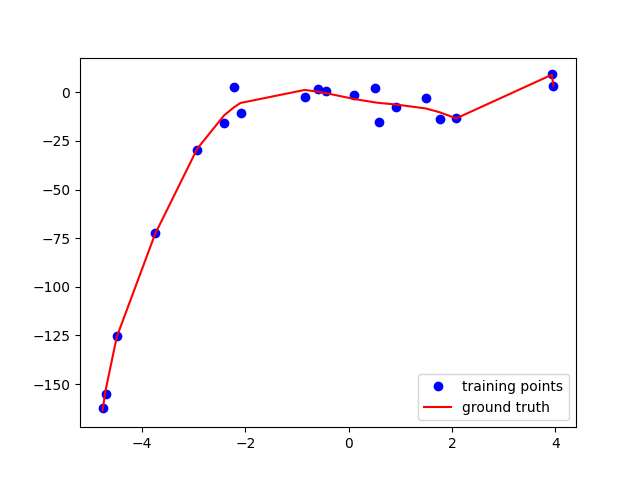
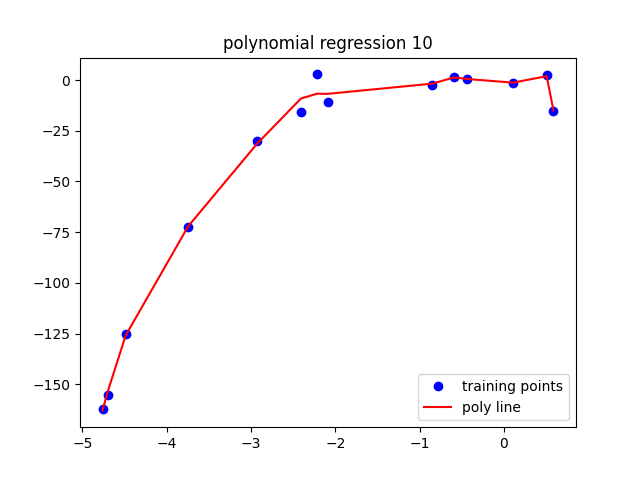
done ?

diff --git a/task 3/Main.py b/task 3/Main.py
@@ -11,6 +11,8 @@ from sklearn.model_selection import train_test_split
 from sklearn.metrics import classification_report,confusion_matrix
 from sklearn import metrics
 from sklearn.ensemble import RandomForestClassifier
+from sklearn.metrics import accuracy_score
+from sklearn.model_selection import cross_val_score
 def graph(data):
     patient = data.loc[data['Participant Condition'] == "Patient"]
     patient = patient[["Alpha"]]
@@ -29,8 +31,10 @@ def graph(data):
 
     control = data_file.loc[data['Participant Condition'] != "Patient"]
     control = control[["Beta"]]
-    fig = sns.kdeplot(control["Beta"], shade=True, color="g")
     fig = sns.kdeplot(patient["Beta"], shade=True, color="r")
+    fig = sns.kdeplot(control["Beta"], shade=True, color="g")
+
+    plt.legend((' patient', ' control ', '$x$'), loc='lower right')
     plt.show()
 def sksplit(data,k):
     kf = KFold(n_splits=k,shuffle=True)
@@ -46,47 +50,156 @@ print(data_file.describe().transpose())
 X = data_file[Prd].values
 y = data_file[Tc].values
 
-X_train, X_test, y_train, y_test = train_test_split(X, y, test_size=0.10, random_state=40)
+X_train, X_test, y_train, y_test = train_test_split(X, y, test_size=0.10, random_state=40) # data splitter
 
-print(X_train.shape); print(X_test.shape)
-mlp = MLPClassifier(hidden_layer_sizes=(50,50), activation='relu', solver='adam', max_iter=500)
-mlp2 = MLPClassifier(hidden_layer_sizes=(500,500), activation='relu', solver='adam', max_iter=500)
-mlp3 = MLPClassifier(hidden_layer_sizes=(1000,1000), activation='relu', solver='adam', max_iter=500)
-
-#mlp.fit(X_train,y_train)
-
-#mlp2.fit(X_train,y_train)
-
-#mlp3.fit(X_train,y_train)
-
-#predict_train = mlp.predict(X_train)
-#predict_train2 = mlp2.predict(X_train)
-#predict_train3 = mlp3.predict(X_train)
-#predict_test = mlp.predict(X_test)
-#predict_test2 = mlp2.predict(X_test)
-#predict_test3 = mlp3.predict(X_test)
-#print(confusion_matrix(y_train,predict_train))
+print(X_train.shape)
+print(X_test.shape)
+print(X_train)
+mlp = MLPClassifier(hidden_layer_sizes=(500,500), activation='logistic', solver='lbfgs', max_iter=500)
 
 
-#print(classification_report(y_train,predict_train))
-#print(confusion_matrix(y_train,predict_train2))
-#print(classification_report(y_train,predict_train2))
-#print(confusion_matrix(y_train,predict_train3))
-#print(classification_report(y_train,predict_train3))
-#clf = RandomForestClassifier(n_estimators=50,min_samples_leaf=10)
-#clf2 = RandomForestClassifier(n_estimators=500,min_samples_leaf=10)
-#clf3 = RandomForestClassifier(n_estimators=10000,min_samples_leaf=10)
-#clf.fit(X_train,y_train)
-#clf2.fit(X_train,y_train)
-#clf3.fit(X_train,y_train)
-#y_pred = clf.predict(X_test)
-#print("Accuracy:",metrics.accuracy_score(y_test, y_pred))
-#y_pred2 = clf2.predict(X_test)
-#print("Accuracy:",metrics.accuracy_score(y_test, y_pred2))
-#y_pred3 = clf3.predict(X_test)
-#print("Accuracy:",metrics.accuracy_score(y_test, y_pred3))
+mlp.fit(X_train,y_train)
+predict_train = mlp.predict(X_train)
+predict_test = mlp.predict(X_test)
+print(confusion_matrix(y_train,predict_train))
+
+
+print(classification_report(y_train,predict_train))
+
+clf = RandomForestClassifier(n_estimators=1000,min_samples_leaf=10)
+
+clf.fit(X_train,y_train)
+
+y_pred = clf.predict(X_test)
+print("Accuracy 10 leaf :",metrics.accuracy_score(y_test, y_pred))
+clf = RandomForestClassifier(n_estimators=1000,min_samples_leaf=5)
+
+clf.fit(X_train,y_train)
+
+y_pred = clf.predict(X_test)
+print("Accuracy 5 leaf :",metrics.accuracy_score(y_test, y_pred))
+## 3.3 below
 k = 10
-SplitData= sksplit(data_file,k)
-print(SplitData[0])
+df = data_file.drop(labels=['Image number','Bifurcation number','Artery (1)/ Vein (2)'], axis=1)
+out = df["Participant Condition"].transpose()
+print(df)
+inp = df.drop(['Participant Condition'], axis=1)
+kf = KFold(n_splits=10)
+kf.get_n_splits(X)
+print(kf)
+inp = inp.transpose()
+for train_index,test_index in kf.split(df):
+    X_train, X_test = inp[train_index],inp[test_index]
+    y_train, y_test = out[train_index], out[test_index]
 
-#predict_train = mlp.predict(X_train)
+X_train = X_train.transpose()
+X_test = X_test.transpose()
+y_train = y_train.transpose()
+y_test = y_test.transpose()
+
+AnnClassOne = MLPClassifier(hidden_layer_sizes=(50,50), activation='logistic', solver='adam', max_iter=5000)
+AnnClassTwo = MLPClassifier(hidden_layer_sizes=(500,500), activation='logistic', solver='adam', max_iter=5000)
+AnnClassThree = MLPClassifier(hidden_layer_sizes=(1000,1000), activation='logistic', solver='adam', max_iter=5000)
+TreeForestOne = RandomForestClassifier(n_estimators=50,min_samples_leaf=10)
+TreeForestTwo = RandomForestClassifier(n_estimators=500,min_samples_leaf=10)
+TreeForestThree = RandomForestClassifier(n_estimators=10000,min_samples_leaf=10)
+
+AS = []
+for train_index,test_index in kf.split(df):
+    X_train, X_test = inp[train_index], inp[test_index]
+    y_train, y_test = out[train_index], out[test_index]
+    X_train = X_train.transpose()
+    X_test = X_test.transpose()
+    y_train = y_train.transpose()
+    y_test = y_test.transpose()
+    AnnClassOne.fit(X_train,y_train)
+    predict_train = AnnClassOne.predict(X_train)
+    predict_test = AnnClassOne.predict(X_test)
+    AS.append(accuracy_score(y_train, predict_train))
+scores = cross_val_score(AnnClassOne, inp.transpose(), out.transpose(), cv=5)
+print('Average accuracy 50 ANN')
+print("CV accuracy = %0.2f accuracy with a standard deviation of %0.2f" % (scores.mean(), scores.std()))
+print("Normal Accuracy = ",sum(AS)/len(AS))
+AS = []
+for train_index,test_index in kf.split(df):
+    X_train, X_test = inp[train_index], inp[test_index]
+    y_train, y_test = out[train_index], out[test_index]
+    X_train = X_train.transpose()
+    X_test = X_test.transpose()
+    y_train = y_train.transpose()
+    y_test = y_test.transpose()
+    AnnClassTwo.fit(X_train,y_train)
+    predict_train = AnnClassTwo.predict(X_train)
+    predict_test = AnnClassTwo.predict(X_test)
+    AS.append(accuracy_score(y_train, predict_train))
+print('Average accuracy 500 ANN')
+scores = cross_val_score(AnnClassTwo, inp.transpose(), out.transpose(), cv=10)
+print("CV accuracy = %0.2f accuracy with a standard deviation of %0.2f" % (scores.mean(), scores.std()))
+print("Normal Accuracy = ",sum(AS)/len(AS))
+
+AS = []
+for train_index,test_index in kf.split(df):
+    X_train, X_test = inp[train_index], inp[test_index]
+    y_train, y_test = out[train_index], out[test_index]
+    X_train = X_train.transpose()
+    X_test = X_test.transpose()
+    y_train = y_train.transpose()
+    y_test = y_test.transpose()
+    AnnClassThree.fit(X_train,y_train)
+    predict_train = AnnClassThree.predict(X_train)
+    predict_test = AnnClassThree.predict(X_test)
+    AS.append(accuracy_score(y_train, predict_train))
+
+print('Average accuracy 10000 ANN')
+scores = cross_val_score(AnnClassThree, inp.transpose(), out.transpose(), cv=5)
+print("CV accuracy = %0.2f accuracy with a standard deviation of %0.2f" % (scores.mean(), scores.std()))
+print("Normal Accuracy = ",sum(AS)/len(AS))
+
+for train_index,test_index in kf.split(df):
+    X_train, X_test = inp[train_index], inp[test_index]
+    y_train, y_test = out[train_index], out[test_index]
+    X_train = X_train.transpose()
+    X_test = X_test.transpose()
+    y_train = y_train.transpose()
+    y_test = y_test.transpose()
+    TreeForestOne.fit(X_train,y_train)
+    predict_train = TreeForestOne.predict(X_train)
+    predict_test = TreeForestOne.predict(X_test)
+    AS.append(accuracy_score(y_train, predict_train))
+
+print('Average accuracy Tree 50')
+scores = cross_val_score(TreeForestOne, inp.transpose(), out.transpose(), cv=5)
+print("CV accuracy = %0.2f accuracy with a standard deviation of %0.2f" % (scores.mean(), scores.std()))
+print("Normal Accuracy = ",sum(AS)/len(AS))
+for train_index,test_index in kf.split(df):
+    X_train, X_test = inp[train_index], inp[test_index]
+    y_train, y_test = out[train_index], out[test_index]
+    X_train = X_train.transpose()
+    X_test = X_test.transpose()
+    y_train = y_train.transpose()
+    y_test = y_test.transpose()
+    TreeForestTwo.fit(X_train,y_train)
+    predict_train = TreeForestTwo.predict(X_train)
+    predict_test = TreeForestTwo.predict(X_test)
+    AS.append(accuracy_score(y_train, predict_train))
+
+print('Average accuracy Tree 500')
+scores = cross_val_score(TreeForestTwo, inp.transpose(), out.transpose(), cv=5)
+print("CV accuracy = %0.2f accuracy with a standard deviation of %0.2f" % (scores.mean(), scores.std()))
+print("Normal Accuracy = ",sum(AS)/len(AS))
+for train_index,test_index in kf.split(df):
+    X_train, X_test = inp[train_index], inp[test_index]
+    y_train, y_test = out[train_index], out[test_index]
+    X_train = X_train.transpose()
+    X_test = X_test.transpose()
+    y_train = y_train.transpose()
+    y_test = y_test.transpose()
+    TreeForestThree.fit(X_train,y_train)
+
+    predict_train = TreeForestThree.predict(X_train)
+    predict_test = TreeForestThree.predict(X_test)
+    AS.append(accuracy_score(y_train, predict_train))
+print('Average accuracy Tree 10000')
+scores = cross_val_score(TreeForestThree, inp.transpose(), out.transpose(), cv=5)
+print("CV accuracy = %0.2f accuracy with a standard deviation of %0.2f" % (scores.mean(), scores.std()))
+print("Normal Accuracy = ",sum(AS)/len(AS))

diff --git a/task 1/Main.py b/task 1/Main.py
@@ -2,9 +2,12 @@ import numpy
 import pandas as pd
 import matplotlib.pyplot
 from matplotlib import pyplot as plt
+import matplotlib.ticker as plticker
 import numpy as np
-from sklearn.metrics import mean_squared_error
-
+import math
+def mean_squared_error(y_tester,Regress):
+    mse = np.square(np.subtract(y_tester,Regress)).mean()
+    return mse
 def Pol_Matrix(features_train, degree):
   X = np.ones(features_train.shape)
   for i in range(1,degree + 1):
@@ -28,11 +31,13 @@ def pol_regression(x_train, y_train, degree):
          w1 = W_Pol_Fit(x_train, y_train, degree)
     Xtest1 = Pol_Matrix(x_train, degree)
     ytest1 = Xtest1.dot(w1)
+    print(w1)
     print
     plt.plot(x_train, ytest1, 'r')
 
-    plt.legend(('training points', 'ground truth', '$x$'), loc = 'lower right')
-
+    plt.legend(('training points', 'poly line', '$x$'), loc = 'lower right')
+    title = "polynomial regression " +  str(degree)
+    plt.title(title)
     plt.savefig('polynomial.png')
     plt.show()
     return ytest1;
@@ -42,37 +47,35 @@ data_file = data_file.sort_values(by=['x'], ascending=True)
 
 x = data_file['x']
 y = data_file['y']
+height = len(x)
+x_trainer = x[0:math.floor(height*0.7)]
+y_trainer = y[0:math.floor(height*0.7)]
 
-x_trainer = x.sample(frac=0.7,random_state=0)
-y_trainer = y.sample(frac=0.7,random_state=0)
+x_tester = x[0:math.ceil(height*0.3)]
+y_tester = y[0:math.ceil(height*0.3)]
 
-x_tester = x.drop(x_trainer.index)
-y_tester = y.drop(y_trainer.index)
-
-Regress0 = pol_regression(x_trainer,y_trainer,0)
-print(Regress0)
-
-Regress1 = pol_regression(x_trainer,y_trainer,1)
-
-print(Regress1.shape)
-
-print(y_tester.shape)
-Regress1.resize((6),refcheck=False)
-print(Regress1)
-print(np.sqrt(mean_squared_error(y_tester,Regress1)))
-
+Regress0 = pol_regression(x,y,0)
+Regress1 = pol_regression(x,y,1)
 Regress2 = pol_regression(x,y,2)
-Regress2.resize((6),refcheck=False)
-print(np.sqrt(mean_squared_error(y_tester,Regress2)))
 Regress3 = pol_regression(x,y,3)
-Regress3.resize((6),refcheck=False)
-print(np.sqrt(mean_squared_error(y_tester,Regress3)))
-#print(np.sqrt(mean_squared_error(y_tester,Regress3)))
 Regress4 = pol_regression(x,y,6)
-Regress4.resize((6),refcheck=False)
-print(np.sqrt(mean_squared_error(y_tester,Regress4)))
 Regress5 = pol_regression(x,y,10)
-Regress5.resize((6),refcheck=False)
-print(np.sqrt(mean_squared_error(y_tester,Regress5)))
 
+RsmeTest = []
+RsmeTrain = []
+for i in range(11):
+    Regress0 = pol_regression(x_trainer,y_trainer,i)
+    RsmeTrain.append(np.sqrt(mean_squared_error(y_trainer,Regress0)))
+    Regress0.resize((6),refcheck=False)
+    RsmeTest.append(np.sqrt(mean_squared_error(y_tester,Regress0)))
 
+print(RsmeTrain)
+print(RsmeTest)
+plt.plot(RsmeTrain, color='r')
+plt.xticks([0,1,2,3,6,10])
+plt.yticks(np.arange(0, 80, step=5))
+
+plt.plot(RsmeTest,color='b')
+plt.legend(('Train regression','Test regression', 'poly line', '$x$'), loc='upper right')
+
+plt.show()
